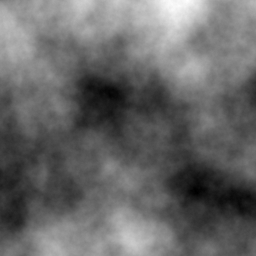
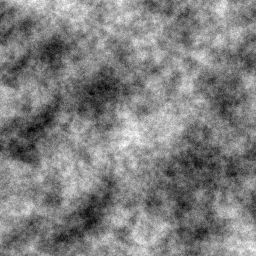
Fixing errors in octaved noise.

diff --git a/DiamondDogs/engine/util/sdnoise1234.cpp b/DiamondDogs/engine/util/sdnoise1234.cpp
@@ -18,11 +18,7 @@
 #include <stdafx.h>
 #include <random>
 #include "sdnoise1234.h" /* We strictly don't need this, but play nice. */
-
-constexpr static int FASTFLOOR(const float& x) {
-	return (x > 0) ? static_cast<int>(x) : static_cast<int>(x) - 1;
-}
-
+#define FASTFLOOR(x) ( ((x)>0) ? ((int)x) : (((int)x)-1) )
 /*
  * Gradient tables. These could be programmed the Ken Perlin way with
  * some clever bit-twiddling, but this is more clear, and not really slower.
@@ -116,7 +112,8 @@ static void grad4( int hash, float *gx, float *gy, float *gz, float *gw) {
 NoiseGen::NoiseGen() {
 	std::random_device rd;
 	std::mt19937 rng(rd());
-	std::iota(perm.begin(), perm.end(), 0);
+	std::iota(perm.begin(), perm.begin() + 256, 0);
+	std::iota(perm.begin() + 256, perm.end(), 0);
 	std::shuffle(perm.begin(), perm.end(), rng);
 }
 
@@ -357,9 +354,9 @@ float NoiseGen::sdnoise3( float x, float y, float z, glm::vec3* deriv)
     z3 = z0 - 1.0f + 3.0f * G3;
 
     /* Wrap the integer indices at 256, to avoid indexing perm[] out of bounds */
-    ii = i % 256;
-    jj = j % 256;
-    kk = k % 256;
+    ii = abs(i % 256);
+    jj = abs(j % 256);
+    kk = abs(k % 256);
 
     /* Calculate the contribution from the four corners */
     t0 = 0.6f - x0*x0 - y0*y0 - z0*z0;

diff --git a/DiamondDogs/engine/util/noise.cpp b/DiamondDogs/engine/util/noise.cpp
@@ -104,8 +104,6 @@ namespace vulpes {
 		float sum = 0.0f, amplitude = 1.0f;
 		NoiseGen ng;
 		for (size_t i = 0; i < octaves; ++i) {
-			int32_t oct_seed = (seed + i) & 0xfffffff;
-			//sum += SimplexBase(npos, glm::vec3(), oct_seed, perm) * amplitude;
 			sum += ng.sdnoise3(npos.x, npos.y, npos.z, nullptr) * amplitude;
 			npos *= lacun;
 			amplitude *= persistance;
@@ -156,8 +154,6 @@ namespace vulpes {
 		float sum = 0.0f, amplitude = 1.0f;
 		NoiseGen ng;
 		for (size_t i = 0; i < octaves; ++i) {
-			int32_t oct_seed = (seed + i) & 0xfffffff;
-			//sum += SimplexBase(npos, glm::vec3(), oct_seed, perm) * amplitude;
 			sum += 1.0f - fabsf(ng.sdnoise3(npos.x, npos.y, npos.z, nullptr)) * amplitude;
 			npos *= lacun;
 			amplitude *= persistance;

diff --git a/DiamondDogs/engine/terrain/HeightNode.cpp b/DiamondDogs/engine/terrain/HeightNode.cpp
@@ -190,11 +190,17 @@ namespace vulpes {
 			samples.resize(num_samples * num_samples);
 			glm::vec2 xy = starting_pos.xz;
 			xy += 0.02f;
+			NoiseGen ng;
 			//samples = MakeCheckerboard(num_samples, num_samples);
 			for (size_t j = 0; j < num_samples; ++j) {
 				for (size_t i = 0; i < num_samples; ++i) {
-
-					samples[i + (j * num_samples)].Sample.x = SNoise::FBM(glm::vec3(i * step_size, j * step_size, 0.0f), 12, 0.5, 16, 2.2f, 0.50f);
+					glm::vec3 npos(xy.x + i * step_size, xy.y + j * step_size, 0.0f);
+					float ampl = 1.0f;
+					for (size_t k = 0; k < 12; ++k) {
+						samples[i + (j * num_samples)].Sample.x += ng.sdnoise3(npos.x, npos.y, npos.z, nullptr) * ampl;
+						npos *= 1.80f;
+						ampl *= 0.80f;
+					}
 				}
 			}
 		}
